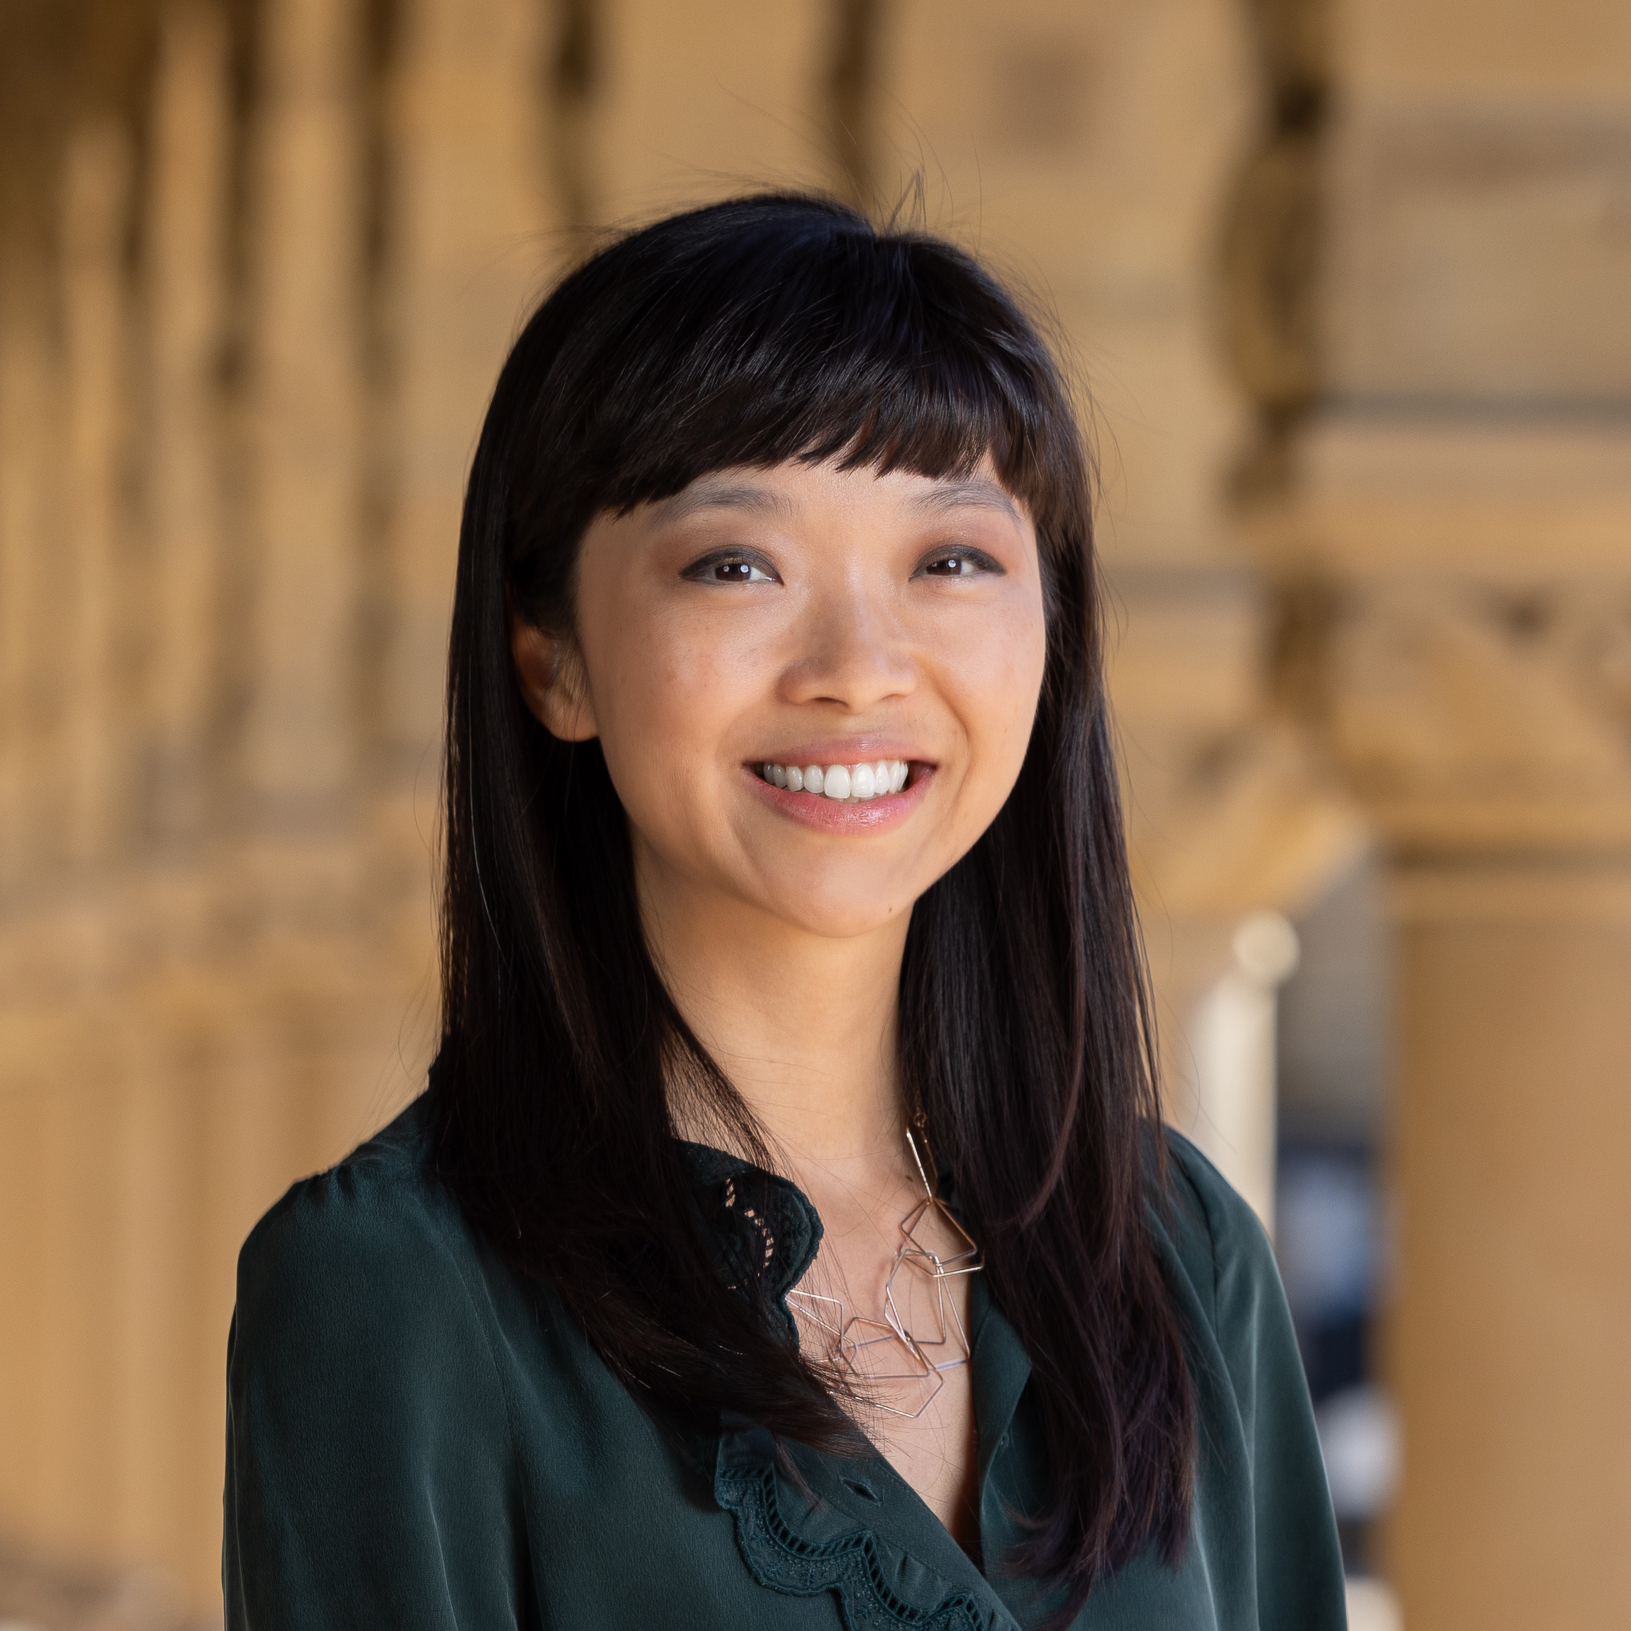
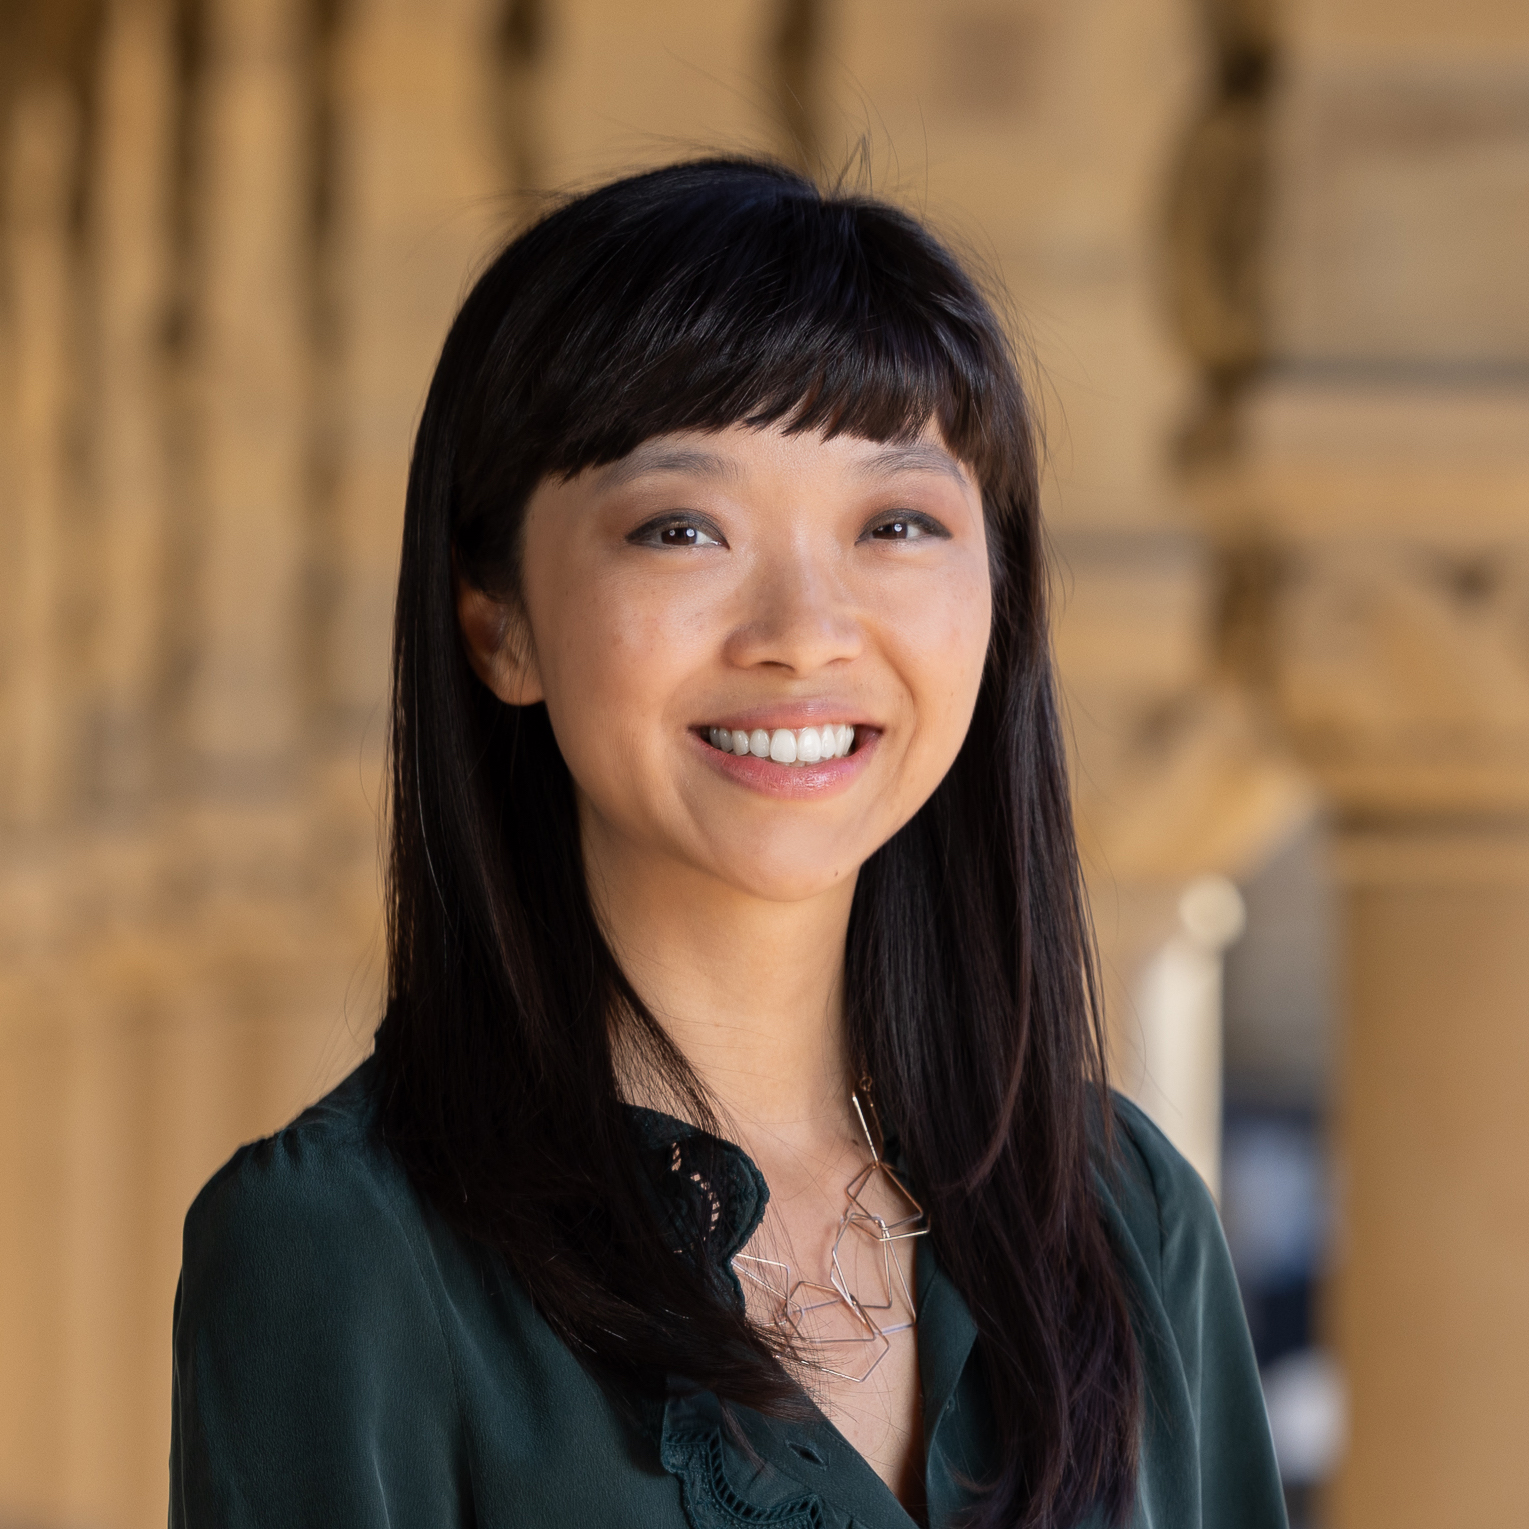
add schedule

diff --git a/index.html b/index.html
@@ -31,38 +31,114 @@
         <p><b>What determines how people make use of any given modality for ad-hoc communication?</b> How does that relate to their knowledge of conventionalized language?</p>
 
         <h3 id="schedule">schedule</h3>
-        <p>The workshop will take place on Wednesday, July 22 from 8:30am to 12pm.</p>
-        <p>Schedule TBA.</p>
+        <p>The workshop will take place on Wednesday, July 22 from 8:30am to 12pm in Rio de Janeiro, Brazil.</p>
+        <div class="schedule-timeline">
+            <div class="timeline-item">
+                <div class="timeline-square timeline-square--plain"></div>
+                <div class="timeline-text">
+                    <p class="timeline-time">8:30 am</p>
+                    <h4>Intro remarks</h4>
+                </div>
+            </div>
+            <div class="timeline-item">
+                <div class="timeline-square" style="background-image: url('img/people/dan.jpg');"></div>
+                <div class="timeline-text">
+                    <p class="timeline-time">8:50 am</p>
+                    <h4>Daniel Harris</h4>
+                    <p class="timeline-affiliation"><i>Hunter College & CUNY Graduate Center</i></p>
+                </div>
+            </div>
+            <div class="timeline-item">
+                <div class="timeline-square" style="background-image: url('img/people/neil.jpg');"></div>
+                <div class="timeline-text">
+                    <p class="timeline-time">9:20 am</p>
+                    <h4>Neil Cohn</h4>
+                    <p class="timeline-affiliation"><i>Tilburg University</i></p>
+                </div>
+            </div>
+            <div class="timeline-item">
+                <div class="timeline-square" style="background-image: url('img/people/julian.jpg');"></div>
+                <div class="timeline-text">
+                    <p class="timeline-time">9:40 am</p>
+                    <h4>Julian Jara-Ettinger</h4>
+                    <p class="timeline-affiliation"><i>Yale University</i></p>
+                </div>
+            </div>
+            <div class="timeline-item">
+                <div class="timeline-square timeline-square--empty"></div>
+                <div class="timeline-text">
+                    <p class="timeline-time">10:00 am</p>
+                    <h4>Refreshment break</h4>
+                </div>
+            </div>
+            <div class="timeline-item">
+                <div class="timeline-square" style="background-image: url('img/people/adena.png');"></div>
+                <div class="timeline-text">
+                    <p class="timeline-time">10:30 am</p>
+                    <h4>Adena Schachner</h4>
+                    <p class="timeline-affiliation"><i>UC San Diego</i></p>
+                </div>
+            </div>
+            <div class="timeline-item">
+                <div class="timeline-square" style="background-image: url('img/people/sam.png');"></div>
+                <div class="timeline-text">
+                    <p class="timeline-time">10:50 am</p>
+                    <h4>Samuel Mehr</h4>
+                    <p class="timeline-affiliation"><i>University of Auckland & Yale University</i></p>
+                </div>
+            </div>
+            <div class="timeline-item">
+                <div class="timeline-square timeline-square--plain"></div>
+                <div class="timeline-text">
+                    <p class="timeline-time">11:10 am</p>
+                    <h4>Recap & group discussion</h4>
+                </div>
+            </div>
+            <div class="timeline-item">
+                <div class="timeline-square timeline-square--plain"></div>
+                <div class="timeline-text">
+                    <p class="timeline-time">11:30 am</p>
+                    <h4>Moderated panel — bringing it together</h4>
+                </div>
+            </div>
+            <div class="timeline-item">
+                <div class="timeline-square timeline-square--empty"></div>
+                <div class="timeline-text">
+                    <p class="timeline-time">12:00 pm</p>
+                    <h4>Lunch</h4>
+                </div>
+            </div>
+        </div>
 
         <h3 id="team">team</h3>
         <div class="team-grid">
             <div class="person">
-                <img src="img/people/arnav.jpg" alt="Arnav Verma" class="team-photo">
+                <img src="img/people/arnav.jpg" alt="Arnav Verma" class="team-photo" data-hover-src="img/doodles/see.jpg">
                 <div class="team-name"><a href="https://www.arnavverma.com/"><b>Arnav Verma</b></a></div>
                 <div class="team-institution">MIT</div>
             </div>
             <div class="person">
-                <img src="img/people/lio.png" alt="Lio Wong" class="team-photo">
+                <img src="img/people/lio.png" alt="Lio Wong" class="team-photo" data-hover-src="img/doodles/talk.jpg">
                 <div class="team-name"><a href="https://web.mit.edu/zyzzyva/www/academic.html"><b>Lio Wong</b></a></div>
                 <div class="team-institution">Stanford University</div>
             </div>
             <div class="person">
-                <img src="img/people/matt.jpg" alt="Matthew Caren" class="team-photo">
+                <img src="img/people/matt.jpg" alt="Matthew Caren" class="team-photo" data-hover-src="img/doodles/music.jpg">
                 <div class="team-name"><a href="https://matthewcaren.github.io/"><b>Matthew Caren</b></a></div>
                 <div class="team-institution">Stanford University</div>
             </div>
             <div class="person">
-                <img src="img/people/robert.webp" alt="Robert Hawkins" class="team-photo">
+                <img src="img/people/robert.webp" alt="Robert Hawkins" class="team-photo" data-hover-src="img/doodles/talk.jpg">
                 <div class="team-name"><a href="https://rdhawkins.com/"><b>Robert Hawkins</b></a></div>
                 <div class="team-institution">Stanford University</div>
             </div>
             <div class="person">
-                <img src="img/people/arvind.jpg" alt="Arvind Satyanarayan" class="team-photo">
+                <img src="img/people/arvind.jpg" alt="Arvind Satyanarayan" class="team-photo" data-hover-src="img/doodles/see.jpg">
                 <div class="team-name"><a href="https://arvindsatya.com/"><b>Arvind Satyanarayan</b></a></div>
                 <div class="team-institution">MIT</div>
             </div>
             <div class="person">
-                <img src="img/people/judy.png" alt="Judy Fan" class="team-photo">
+                <img src="img/people/judy.png" alt="Judy Fan" class="team-photo" data-hover-src="img/doodles/draw.jpg">
                 <div class="team-name"><a href="https://cogtoolslab.github.io/people.html"><b>Judy Fan</b></a></div>
                 <div class="team-institution">Stanford University</div>
             </div>
@@ -75,8 +151,27 @@
             const alpha = Math.max(0, 2 - 3 * (window.scrollY / window.innerHeight));
             document.body.style.setProperty('--bg-opacity', alpha);
         }
+
+        function setupTeamPhotoHovers() {
+            document.querySelectorAll('.team-photo[data-hover-src]').forEach((photo) => {
+                const originalSrc = photo.getAttribute('src');
+                const hoverSrc = photo.getAttribute('data-hover-src');
+                const preloadedHover = new Image();
+                preloadedHover.src = hoverSrc;
+
+                photo.addEventListener('mouseenter', () => {
+                    photo.src = hoverSrc;
+                });
+
+                photo.addEventListener('mouseleave', () => {
+                    photo.src = originalSrc;
+                });
+            });
+        }
+
         window.addEventListener('scroll', updateBackground);
         updateBackground();
+        setupTeamPhotoHovers();
     </script>
 </body>
 </html>

diff --git a/style.css b/style.css
@@ -37,7 +37,7 @@ h2 {
 }
 h3 {
     font-size: 1.75em;
-    margin-top: 60px;
+    padding-top: 60px;
     margin-bottom: 15px;
 }
 p {
@@ -63,6 +63,82 @@ a {
 }
 .navbar a:hover {
     text-decoration: underline;
+}
+
+.schedule-timeline {
+    display: flex;
+    flex-direction: column;
+    align-items: flex-start;
+    gap: 40px;
+    margin: 50px 0 120px 0;
+}
+
+.timeline-item {
+    display: flex;
+    align-items: center;
+    gap: 30px;
+    position: relative;
+}
+
+.timeline-square {
+    width: 120px;
+    height: 120px;
+    flex-shrink: 0;
+    background-color: #ff0000;
+    background-size: cover;
+    background-position: center;
+    background-repeat: no-repeat;
+    position: relative;
+}
+
+.timeline-square--plain {
+    width: 80px;
+    height: 80px;
+    margin-left: 20px;
+    margin-right: 20px;
+}
+
+.timeline-square--empty {
+    width: 80px;
+    height: 80px;
+    margin-left: 20px;
+    margin-right: 20px;
+    background-color: transparent;
+    border: 2px solid #ff0000;
+}
+
+.timeline-item:not(:last-child) .timeline-square::after {
+    content: "";
+    position: absolute;
+    left: 50%;
+    top: 100%;
+    transform: translateX(-50%);
+    width: 2px;
+    height: 40px;
+    background-color: #ff0000;
+}
+
+.timeline-text {
+    max-width: 720px;
+}
+
+.timeline-time {
+    margin: 0 0 5px 0;
+    font-size: 1.1em;
+    line-height: 1.2em;
+}
+
+.timeline-text h4 {
+    margin: 0;
+    font-size: 1.32em;
+    line-height: 1.25em;
+    font-weight: 700;
+}
+
+.timeline-affiliation {
+    margin: 0;
+    font-size: 1em;
+    line-height: 1.2em;
 }
 
 .team-grid {
@@ -96,4 +172,14 @@ a {
 .team-institution {
     text-align: left;
     font-size: 1em;
+}
+
+@media (max-width: 700px) {
+    .timeline-item {
+        gap: 14px;
+    }
+
+    .timeline-text {
+        max-width: none;
+    }
 }